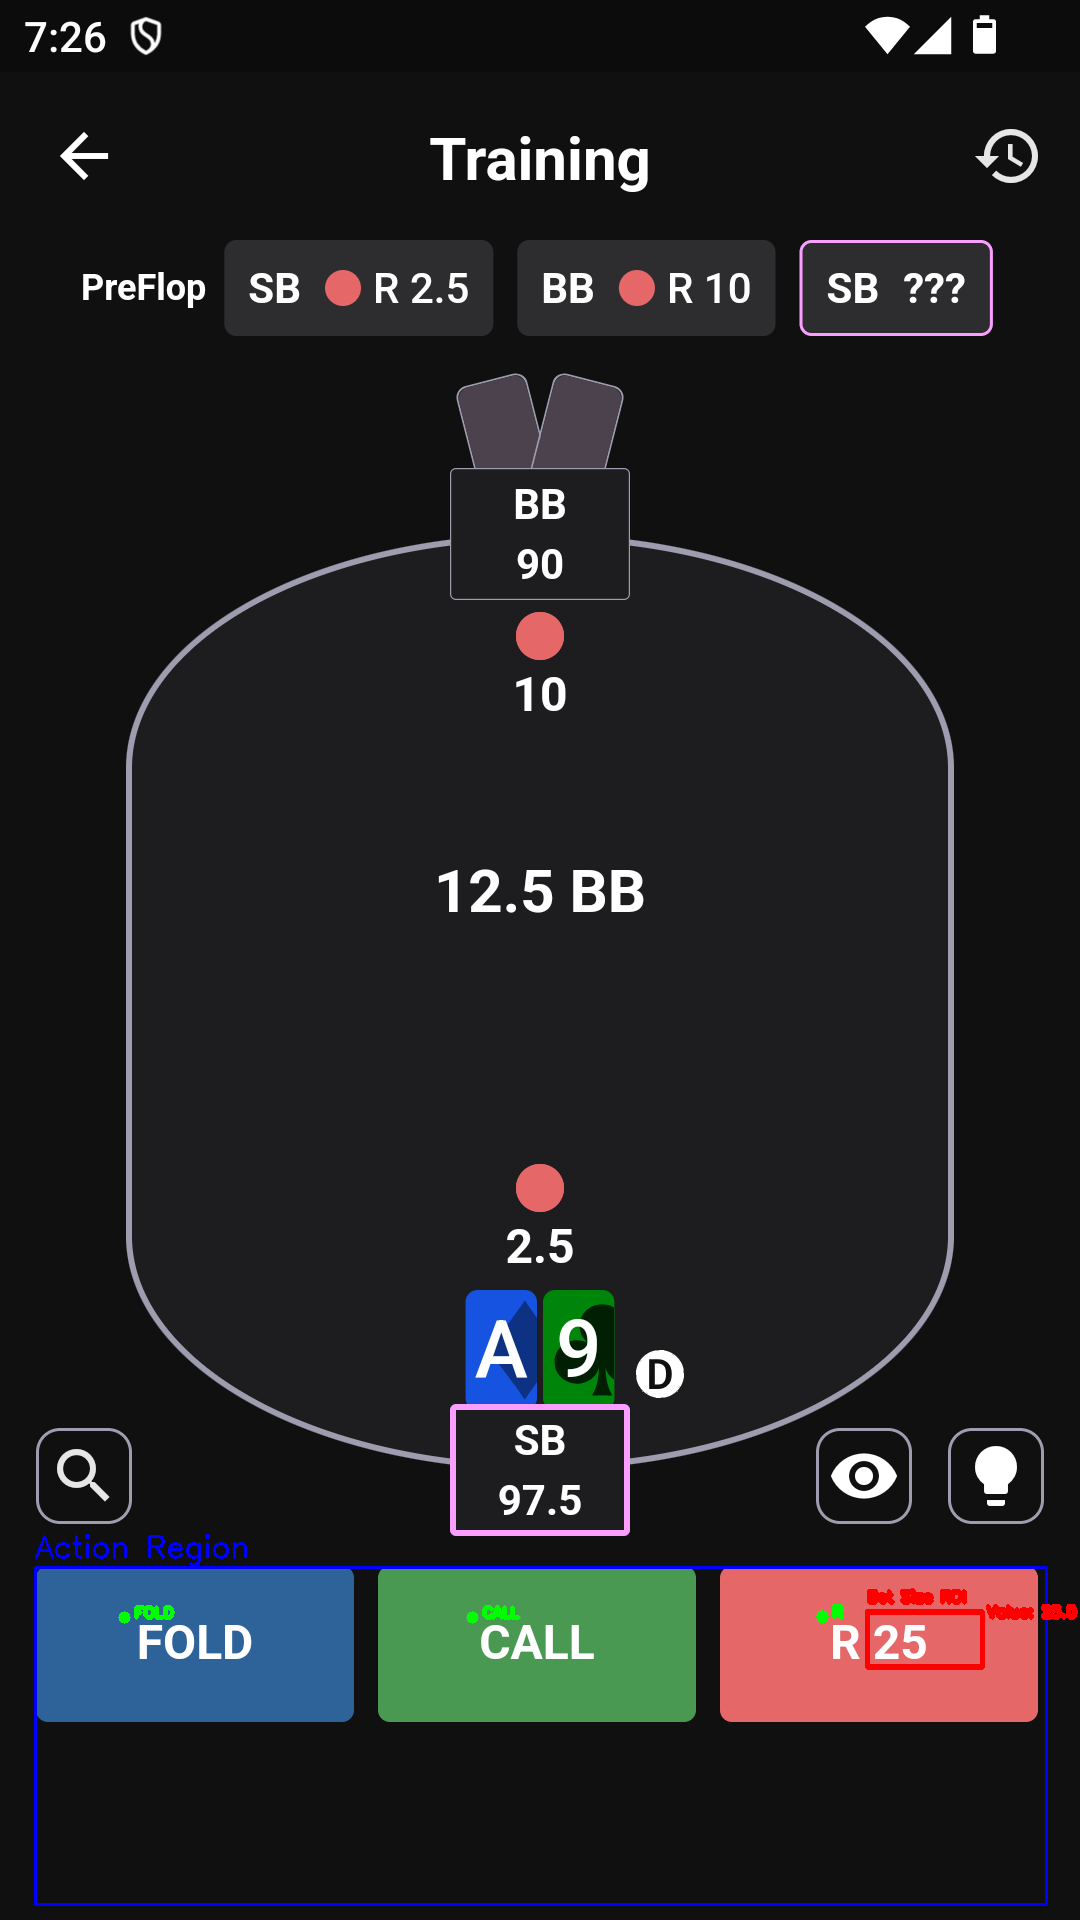
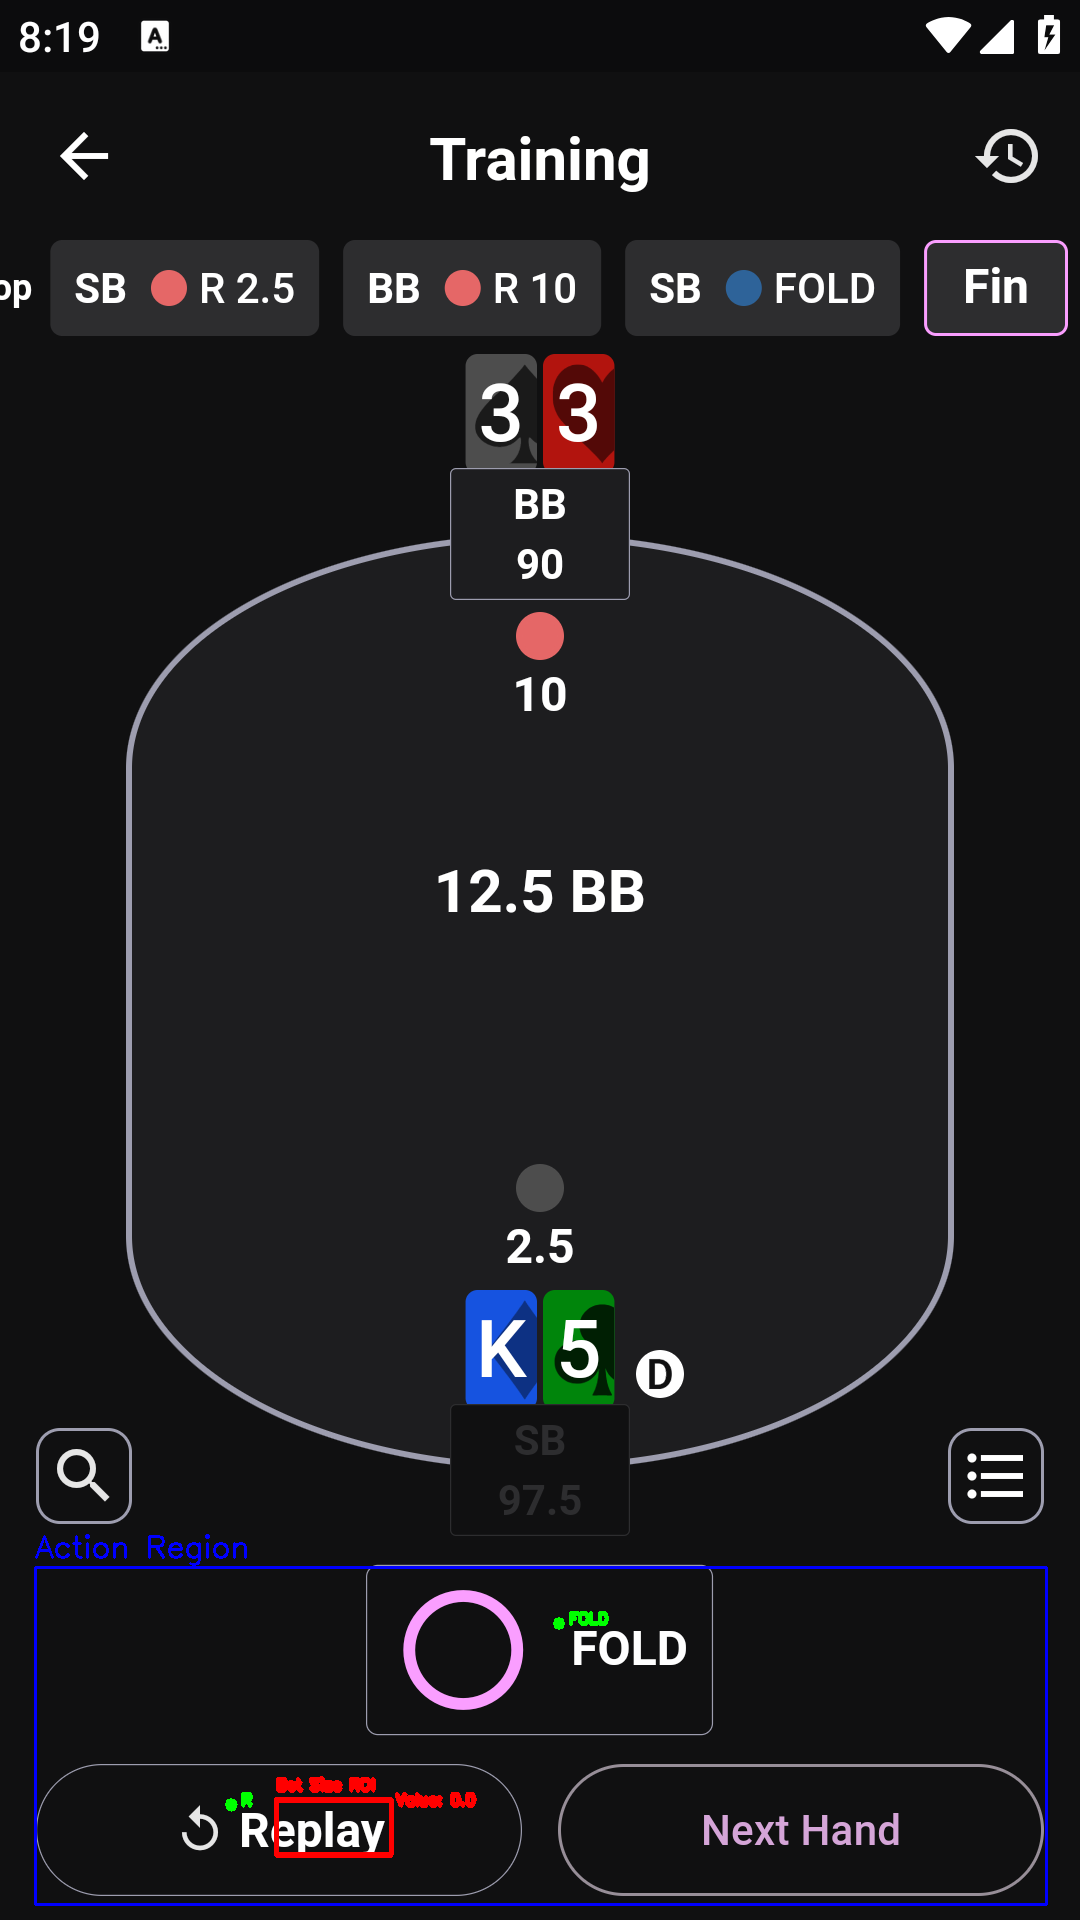
Adding click next_hand, test the auto play for HU pre-flop, it's working fine so far

diff --git a/src/engine/preflop_strategy.py b/src/engine/preflop_strategy.py
@@ -157,6 +157,10 @@ class PreFlopStrategy:
             return self._handle_bb_defense(table_state)
         elif situation == "sb_vs_3bet":
             return self._handle_sb_vs_3bet(table_state)
+        elif situation == "bb_vs_4bet":
+            return self._handle_bb_vs_4bet(table_state)
+        elif situation == "sb_vs_5bet":
+            return self._handle_sb_vs_5bet(table_state)
         else:
             return {"action": "FOLD", "amount": None, 
                     "reasoning": f"Unknown situation: {situation}, defaulting to fold"}
@@ -304,20 +308,20 @@ class PreFlopStrategy:
                 min_raise = min(raise_options, key=lambda x: x['value'])
                 return {"action": "RAISE", "amount": min_raise['value'], 
                         "position": min_raise['position'], 
-                        "reasoning": "Hand in 4-bet range, raising"}
+                        "reasoning": "Hand in 5-bet range, raising"}
         
         # Check if hand is in call vs 4-bet range
         if self.is_in_range(hero_cards, self.bb_call_vs_4bet_range)[0]:
             if actions['CALL']['available']:
                 return {"action": "CALL", "amount": None, 
                         "position": actions['CALL']['position'],
-                        "reasoning": "Hand in call vs 3-bet range, calling"}
+                        "reasoning": "Hand in call vs 4-bet range, calling"}
         
         # Default to fold if not in any range
         if actions['FOLD']['available']:
             return {"action": "FOLD", "amount": None, 
                     "position": actions['FOLD']['position'],
-                    "reasoning": "Hand not in 3-bet defense range, folding"}
+                    "reasoning": "Hand not in 4-bet defense range, folding"}
                     
         return {"action": "WAIT", "amount": None, "reasoning": "No valid action available"}
     
@@ -331,12 +335,12 @@ class PreFlopStrategy:
             if actions['CALL']['available']:
                 return {"action": "CALL", "amount": None, 
                         "position": actions['CALL']['position'],
-                        "reasoning": "Hand in call vs 3-bet range, calling"}
+                        "reasoning": "Hand in call vs 5-bet range, calling"}
         
         # Default to fold if not in any range
         if actions['FOLD']['available']:
             return {"action": "FOLD", "amount": None, 
                     "position": actions['FOLD']['position'],
-                    "reasoning": "Hand not in 3-bet defense range, folding"}
+                    "reasoning": "Hand not in 5-bet defense range, folding"}
                     
         return {"action": "WAIT", "amount": None, "reasoning": "No valid action available"}

diff --git a/src/detector/template_matcher.py b/src/detector/template_matcher.py
@@ -42,3 +42,35 @@ class TemplateMatcher:
                                  cv2.TM_CCOEFF_NORMED)
         _, max_val, _, max_loc = cv2.minMaxLoc(result)
         return max_val, max_loc
+    
+    def detect_next_hand_button(self, screen: np.ndarray) -> Tuple[bool, Tuple[int, int]]:
+        """
+        Detect the 'Next Hand' button on the screen.
+        
+        Args:
+            screen (np.ndarray): The current screen image
+            
+        Returns:
+            Tuple[bool, Tuple[int, int]]: (is_detected, (x, y) position)
+        """
+        next_hand_template = cv2.imread(os.path.join(self.template_path, 'object_templates/next_hand.png'))
+        
+        if next_hand_template is None:
+            print("Warning: Next Hand template could not be loaded")
+            return False, (0, 0)
+        
+        # Look for the button in the bottom half of the screen where it's likely to appear
+        height, width = screen.shape[:2]
+        search_area = screen[height//2:, :]
+        
+        # Match the template
+        result = cv2.matchTemplate(search_area, next_hand_template, cv2.TM_CCOEFF_NORMED)
+        _, max_val, _, max_loc = cv2.minMaxLoc(result)
+        
+        # Adjust position back to full screen coordinates
+        if max_val > 0.7:  # Threshold can be adjusted
+            x = max_loc[0] + next_hand_template.shape[1]//2  # Center of button X
+            y = max_loc[1] + height//2 + next_hand_template.shape[0]//2  # Center of button Y
+            return True, (x, y)
+        
+        return False, (0, 0)

diff --git a/main.py b/main.py
@@ -48,6 +48,25 @@ class PokerDetectorApp:
 
             time.sleep(2)  # Wait for a second before the next action
 
+    def check_and_click_next_hand(self) -> bool:
+        """
+        Check for the 'Next Hand' button and click it if detected.
+        
+        Returns:
+            bool: True if button was found and clicked, False otherwise
+        """
+        screen = self.capture_screen()
+        is_detected, position = self.template_matcher.detect_next_hand_button(screen)
+        
+        if is_detected:
+            x, y = position
+            print(f"Next Hand button detected at ({x}, {y}). Clicking...")
+            self.device.shell(f"input tap {x} {y}")
+            time.sleep(1)  # Give time for the action to take effect
+            return True
+        
+        return False
+
     def take_action(self, current_state):
         """Take an action based on the current state."""
         # Use preflop strategy to get the action
@@ -76,6 +95,12 @@ class PokerDetectorApp:
         
         while self.bot_controller.should_continue():
             try:
+                # First check if the next hand button is visible
+                if self.check_and_click_next_hand():
+                    print("Moving to next hand...")
+                    time.sleep(3)  # Give extra time for next hand to load
+                    continue  # Skip to next iteration
+
                 screen = self.capture_screen()
                 is_hero_turn = self.table_detector.detect_hero_turn(screen)
                 
